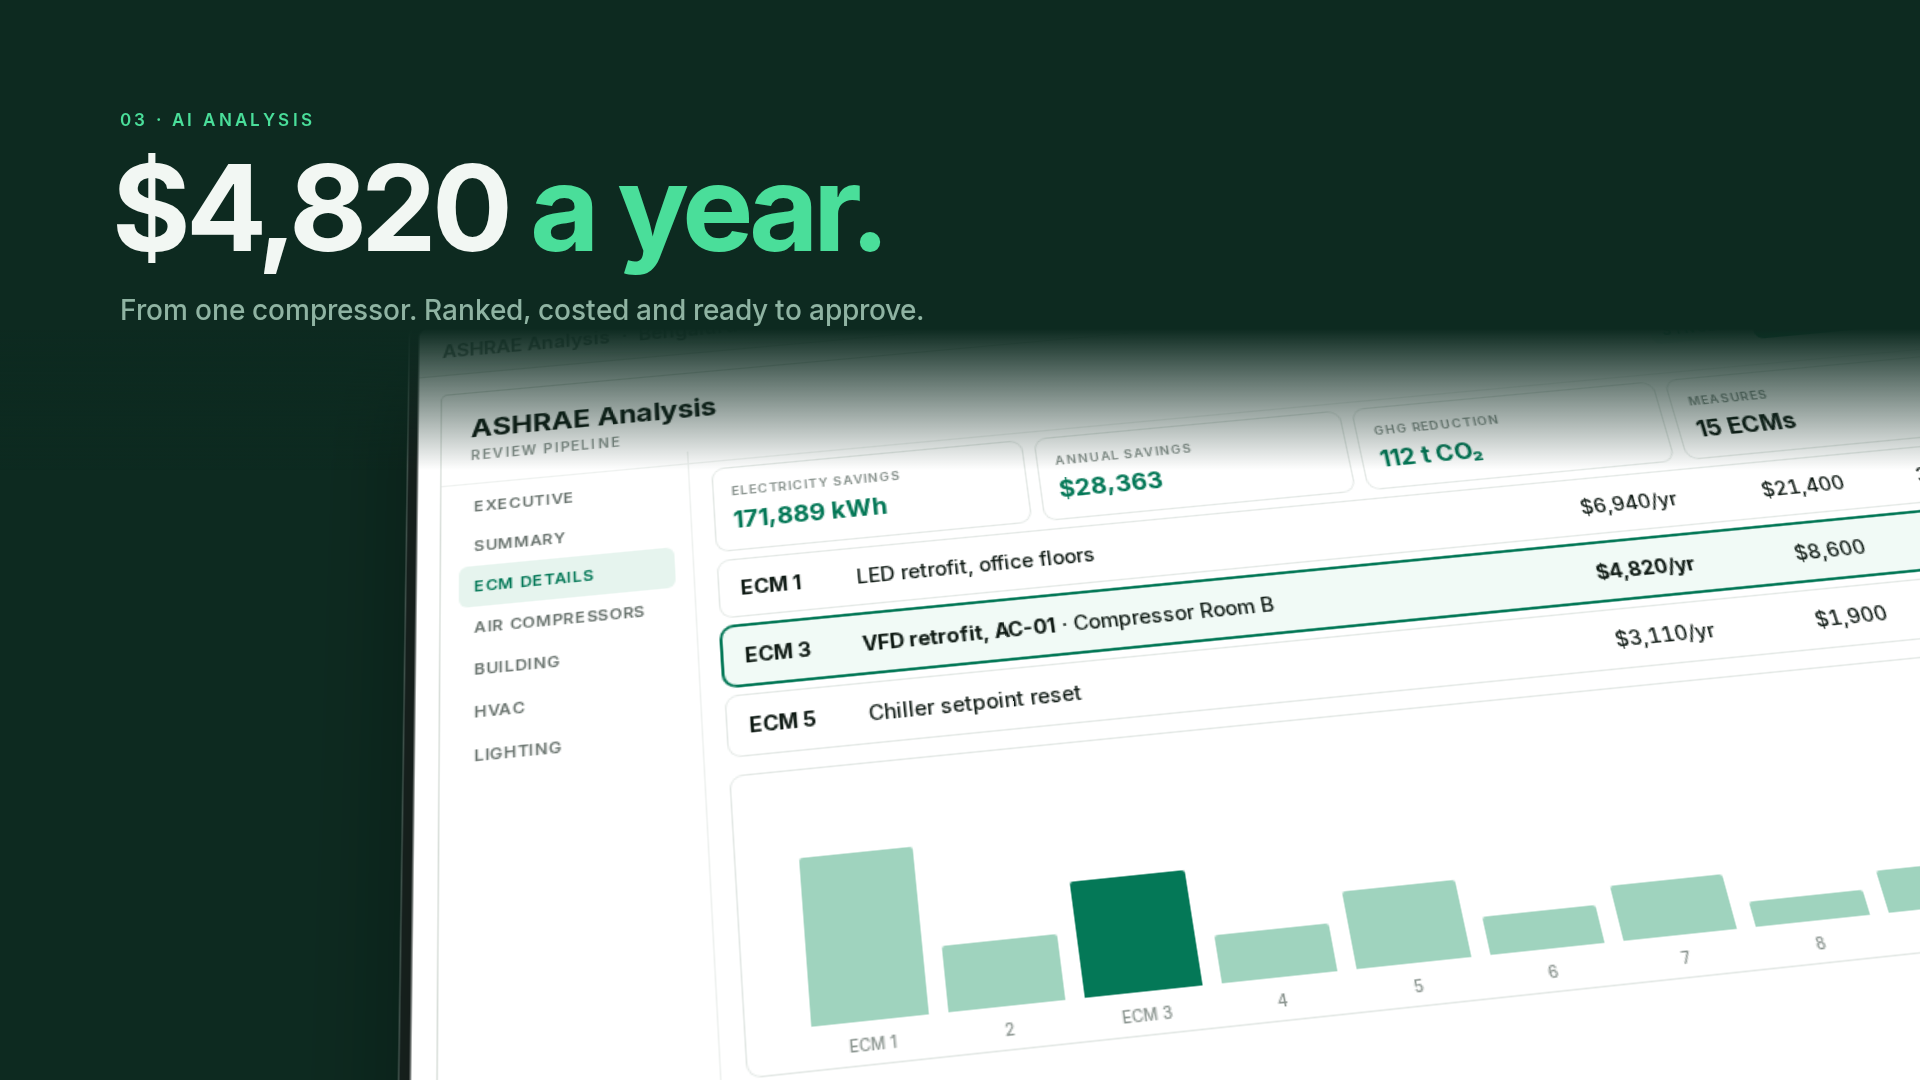
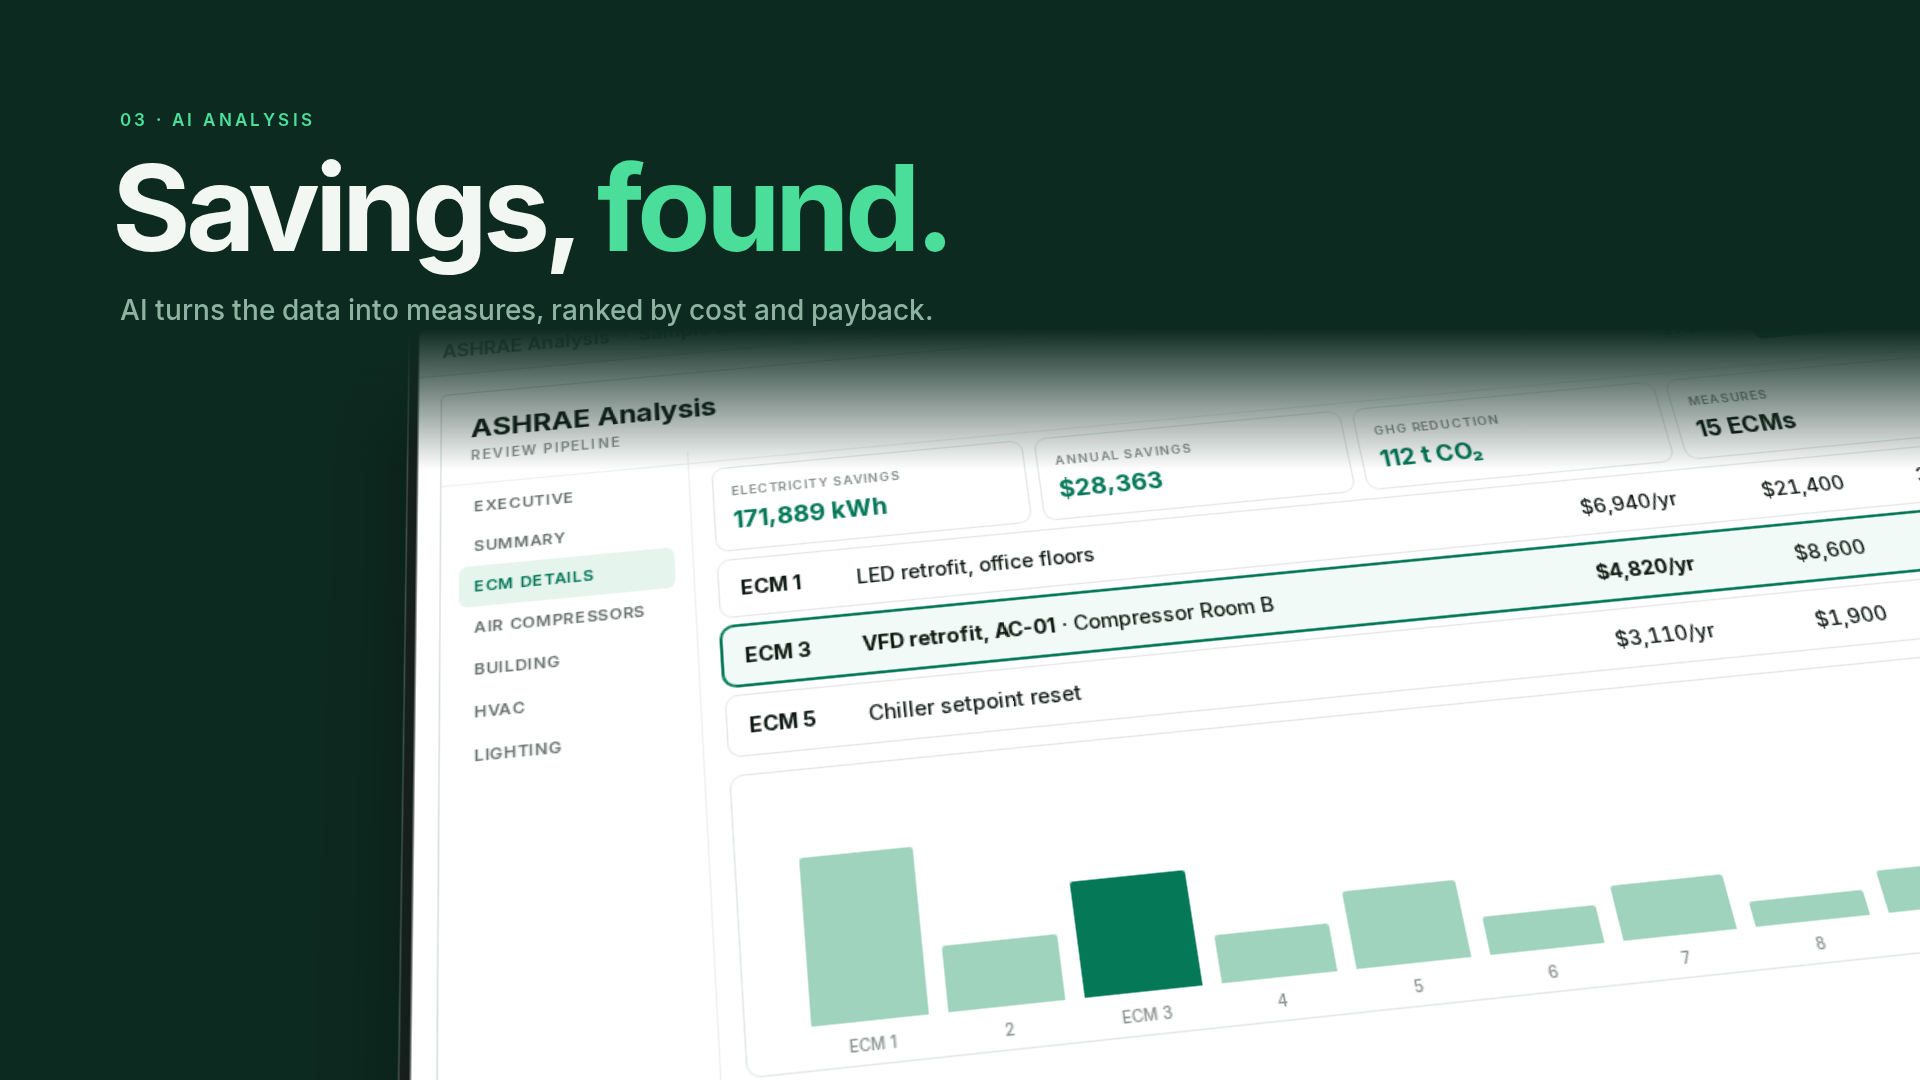
AuditSage storyboard: explain the process, not results; sample data only on screens
Claude-Session: https://claude.ai/code/session_01N6SAp883XGMwBKYGBCyKw5

Changed region(s): [[0.0625, 0.1528, 0.5, 0.3056]]

diff --git a/auditsage/docs/storyboard/v3.html b/auditsage/docs/storyboard/v3.html
@@ -111,7 +111,7 @@ html,body { margin:0; }
 .phone { background:linear-gradient(135deg,#55615B 0%,#151B18 22%,#0D1210 60%,#2C3631 100%) !important; box-shadow:0 40px 90px rgba(0,0,0,.45), inset 0 0 0 1.5px rgba(255,255,255,.18) !important; }
 </style></head><body><svg width="0" height="0" style="position:absolute"><defs><g id="ctl" fill="none" stroke="#6B7570" stroke-width="1.3"><path d="M2 6h10"/><rect x="42.5" y=".5" width="11" height="11"/><path d="M84 .5l11 11M95 .5l-11 11"/></g>
 <g id="cur"><path d="M4 2l15 11-7 1 4 8-3 1-4-8-5 5z" fill="#fff" stroke="#000" stroke-width="1.2" stroke-linejoin="round"/></g></defs></svg><template id="t-phone-data"><div class="phone"><div class="scr">
-  <div class="m-head"><div class="back"></div><div><h3>Air Compressor</h3><p>Bengaluru Office Energy Audit</p></div></div>
+  <div class="m-head"><div class="back"></div><div><h3>Air Compressor</h3><p>Sample Office · Energy Audit</p></div></div>
   <div class="m-tabs"><div class="on">DATA</div><div>NOTES</div><div>PHOTOS</div></div>
   <div class="m-lbl">EQUIPMENT</div><div class="m-in">AC-01 · Compressor Room B</div>
   <div class="m-lbl">RATED POWER (HP)</div><div class="m-in">75</div>
@@ -121,7 +121,7 @@ html,body { margin:0; }
   <div class="m-btn">SAVE ENTRY</div>
   <div class="m-nav"><div>Home</div><div>Browse</div><div class="badge">Sync</div><div>Profile</div></div>
 </div></div></template><template id="t-phone-notes"><div class="phone"><div class="scr">
-  <div class="m-head"><div class="back"></div><div><h3>Air Compressor</h3><p>Bengaluru Office Energy Audit</p></div></div>
+  <div class="m-head"><div class="back"></div><div><h3>Air Compressor</h3><p>Sample Office · Energy Audit</p></div></div>
   <div class="m-tabs"><div>DATA</div><div class="on">NOTES</div><div>PHOTOS</div></div>
   <div class="m-lbl">OBSERVATION</div>
   <div class="m-card">AC-01 runs loaded at part demand; discharge line insulation is worn.</div>
@@ -129,7 +129,7 @@ html,body { margin:0; }
   <div class="m-card">Fit a VFD to AC-01 and replace the discharge line insulation.</div>
   <div class="m-btn">ADD RECOMMENDATION</div>
   <div class="m-nav"><div>Home</div><div>Browse</div><div class="badge">Sync</div><div>Profile</div></div>
-</div></div></template><template id="t-analysis"><div class="win" style="width:1120px;height:700px"><div class="tb"><span>ASHRAE Analysis&nbsp;&nbsp;·&nbsp;&nbsp;Bengaluru Office</span><svg width="96" height="12"><use href="#ctl"/></svg></div><div class="wbody">
+</div></div></template><template id="t-analysis"><div class="win" style="width:1120px;height:700px"><div class="tb"><span>ASHRAE Analysis&nbsp;&nbsp;·&nbsp;&nbsp;Sample audit</span><svg width="96" height="12"><use href="#ctl"/></svg></div><div class="wbody">
   <div class="an-head"><div><h4>ASHRAE Analysis</h4><small>REVIEW PIPELINE</small></div><div><span class="pill s">SYNCED</span>&nbsp;&nbsp;<span class="pill g">Approve Analysis</span></div></div>
   <div class="an-side"><div>EXECUTIVE SUMMARY</div><div class="on">ECM DETAILS</div><div>AIR COMPRESSORS</div><div>BUILDING</div><div>HVAC</div><div>LIGHTING</div></div>
   <div class="an-main">
@@ -139,7 +139,7 @@ html,body { margin:0; }
     <div class="ecm"><b>ECM 5</b><span>Chiller setpoint reset</span><span class="num">$3,110/yr</span><span class="num">$1,900</span><span class="num">0.6 yrs</span></div>
     <div class="chart"><div class="bar" style="height:78%"><small>ECM 1</small></div><div class="bar" style="height:30%"><small>2</small></div><div class="bar hi" style="height:54%"><small>ECM 3</small></div><div class="bar" style="height:22%"><small>4</small></div><div class="bar" style="height:36%"><small>5</small></div><div class="bar" style="height:18%"><small>6</small></div><div class="bar" style="height:26%"><small>7</small></div><div class="bar" style="height:12%"><small>8</small></div><div class="bar" style="height:20%"><small>9</small></div><div class="bar" style="height:9%"><small>10</small></div></div>
   </div></div></div></template><template id="t-report"><div class="win" style="width:1120px;height:720px"><div class="tb"><span>Report Editor&nbsp;&nbsp;·&nbsp;&nbsp;ASHRAE Level 2</span><svg width="96" height="12"><use href="#ctl"/></svg></div><div class="wbody">
-  <div class="ed-bar">← Back to ECMs&nbsp;&nbsp;&nbsp;<span style="color:var(--muted);font-weight:500">Bengaluru Office · ASHRAE Level 2</span><span class="gw">Generate Word</span><span class="pill g" style="padding:7px 12px">Save</span></div>
+  <div class="ed-bar">← Back to ECMs&nbsp;&nbsp;&nbsp;<span style="color:var(--muted);font-weight:500">Sample audit · ASHRAE Level 2</span><span class="gw">Generate Word</span><span class="pill g" style="padding:7px 12px">Save</span></div>
   <div class="nav"><div style="font-weight:600;letter-spacing:.1em;font-size:10px;color:#8A948F">SECTIONS</div><div>1.0 Executive Summary</div><div>2.0 Background</div><div>3.0 Building Overview</div><div class="on">4.1 ECM Details</div><div>4.2 No/Low Cost ECMs</div><div>5.0 Utility Analysis</div></div>
   <div class="doc"><h5>4.1 ECM DETAILS</h5>
     <p><b>ECM 3 · Variable-speed drive for air compressor AC-01.</b></p>
@@ -163,7 +163,7 @@ html,body { margin:0; }
   </div>
   <div class="fields" style="position:absolute;left:370px;right:20px;top:84px;width:auto;border-radius:8px;box-shadow:0 0 0 1px #E3E8E5;overflow:hidden">
     <div class="r" style="background:#F6F8F7;font-weight:600;color:#6B7570;font-size:12px;letter-spacing:.06em"><span>FIELD</span><span>VALUE</span></div>
-    <div class="r"><span>Consumer</span><b>Bengaluru Office · HT</b></div>
+    <div class="r"><span>Consumer</span><b>Sample Office · HT</b></div>
     <div class="r"><span>Bill month</span><b>October 2023</b></div>
     <div class="r hi"><span>Units used</span><b>618,470 kWh</b></div>
     <div class="r"><span>Contract demand</span><b>1,000 kW</b></div>
@@ -200,8 +200,8 @@ html,body { margin:0; }
   <div class="persp"><div data-t="t-analysis" style="position:absolute;left:420px;top:330px;transform:rotateX(28deg) rotateZ(-6deg) scale(1.4);transform-origin:50% 40%"></div></div>
   <div class="abs" style="left:0;right:0;top:0;height:470px;background:linear-gradient(var(--bg) 70%, transparent)"></div>
   <div class="abs kick" style="left:120px;top:110px">03 · AI analysis</div>
-  <div class="abs big" style="left:112px;top:146px">$4,820 <i>a year.</i></div>
-  <div class="abs" style="left:120px;top:290px;font:500 28px/40px Inter;color:#8FB3A2">From one compressor. Ranked, costed and ready to approve.</div>
+  <div class="abs big" style="left:112px;top:146px">Savings, <i>found.</i></div>
+  <div class="abs" style="left:120px;top:290px;font:500 28px/40px Inter;color:#8FB3A2">AI turns the data into measures, ranked by cost and payback.</div>
 </div>
 
 <!-- 3 · Macro: bills, read by AI -->
@@ -226,9 +226,10 @@ html,body { margin:0; }
 <div class="frame" id="f6">
   <div class="tile" style="left:60px;top:60px;width:470px;height:960px;background:#F4F6F4;opacity:.9"><div data-t="t-phone-data" style="position:absolute;left:25px;top:40px"></div></div>
   <div class="tile" style="left:550px;top:60px;width:1310px;height:470px;background:#0F3B2C;box-shadow:none">
-    <div style="position:absolute;left:48px;top:48px" class="kick">Bengaluru Office · one audit · 15 ECMs</div>
-    <div style="position:absolute;left:44px;top:110px;font:700 190px/200px Inter;letter-spacing:-.05em;color:#4ADE9A">$28,363</div>
-    <div style="position:absolute;left:52px;top:320px;font:600 48px Inter;letter-spacing:-.02em;color:#F2F7F3">a year in savings. 171,889 kWh.</div>
+    <div style="position:absolute;left:48px;top:48px" class="kick">AuditSage · one audit, end to end</div>
+    <div style="position:absolute;left:44px;top:100px;font:700 104px/112px Inter;letter-spacing:-.045em;color:#F2F7F3">Site visit<br>to <span style="color:#4ADE9A">final report.</span></div>
+    <div style="position:absolute;left:48px;bottom:44px;display:flex;gap:12px;font:600 18px Inter;letter-spacing:.02em">
+      <span style="padding:10px 16px;border-radius:6px;background:#4ADE9A;color:#0D2A20">On site</span><span style="padding:10px 16px;border-radius:6px;box-shadow:inset 0 0 0 1.5px #4ADE9A;color:#F2F7F3">Bills</span><span style="padding:10px 16px;border-radius:6px;box-shadow:inset 0 0 0 1.5px #4ADE9A;color:#F2F7F3">Analysis</span><span style="padding:10px 16px;border-radius:6px;box-shadow:inset 0 0 0 1.5px #4ADE9A;color:#F2F7F3">Report</span></div>
   </div>
   <div class="tile" style="left:550px;top:550px;width:640px;height:470px"><div class="cap">ASHRAE analysis · ECM details</div><div data-t="t-analysis-compact" style="position:absolute;left:10px;top:14px;transform:scale(.795);transform-origin:0 0"></div></div>
   <div class="tile" style="left:1210px;top:550px;width:650px;height:470px"><div class="cap">Report · 4.1 ECM details</div>

diff --git a/auditsage/docs/shotlist.md b/auditsage/docs/shotlist.md
@@ -11,16 +11,17 @@ AuditSage screens (rebuilt faithfully from the gs-doc screenshots).
 **Mockups:** tight corners (phone screen 20 px, windows 6 px, tiles 10 px). Shine on the hardware only:
 the phone bezel catches a diagonal highlight and window frames have a lit dark edge; screens stay clean.
 In the film the bezel highlight sweeps on the beat as each device lands.
-**One consistent audit on every screen:** Bengaluru Office Energy Audit · AC-01 (Compressor Room B, 75 HP,
-95.2%, no VFD) · bill: October 2023, 618,470 kWh, 1,000 kW, HT-3.4 · ECM 3: VFD on AC-01, $4,820/yr,
-$8,600, 1.8 yr · audit total: 15 ECMs, 171,889 kWh, $28,363/yr, 112 t CO₂.
+**The film explains the process, not results.** Statements name steps (logged, read, found, written);
+no headline quotes a saving, a total or a specific ECM. The screens carry **sample data only**,
+labelled "Sample Office · Energy Audit", kept consistent across screens so the UI reads as one audit
+(sample equipment AC-01 in Compressor Room B, a sample bill, sample ECM rows, a sample report paragraph).
 
 | # | Beats | Time | Shot | Motion | Sound |
 |---|---|---|---|---|---|
 | 1 | 0–5.3 | 0.0–2.5 | **Bento.** Five tiles: app data entry, "Site visit to final report." tile with the mark, extracted bill, ASHRAE analysis, report paragraph. | Tiles snap in one per beat (already moving on frame 0); camera dives into the phone tile on 5. | Hit 0, tick per tile |
 | 2 | 5.3–10.7 | 2.5–5.0 | **Logged once.** The app full-frame in perspective; values fill field by field. "Equipment, photos and notes, offline in the AuditSage app." | Phone glides in with a bezel glint; fields fill on the 16th grid; statement rolls up. | Whoosh, ticks |
 | 3 | 10.7–16 | 5.0–7.5 | **Bills, read.** Extracted Data Details: the bill list ticks to ✓, fields appear row by row, Units used highlights. | Window swings in from the right; rows reveal; highlight sweeps. | Ticks, riser into 16 |
-| 4 | 16–22.4 | 7.5–10.5 | **$4,820 a year.** ASHRAE analysis seen low and close; the ECM 3 row (VFD retrofit, AC-01) lights, its bar rises; the number counts up. Cursor clicks Approve Analysis on 22. | Boom on 16; camera dolly along the table. | Boom 16, click 22 |
-| 5 | 22.4–26.7 | 10.5–12.5 | **Written in.** Report editor, 4.1 ECM Details with the AC-01 paragraph highlighted; cursor clicks Generate Word, "Word document downloaded". | Window morphs from the analysis; click on 25. | Click 25 |
-| 6 | 26.7–29 | 12.5–13.6 | **Pull back: $28,363 a year.** Back out to the bento; the big tile now carries the audit total. | Camera pull-back; number counts up. | Riser |
+| 4 | 16–22.4 | 7.5–10.5 | **Savings, found.** ASHRAE analysis seen low and close: "AI turns the data into measures, ranked by cost and payback." One ECM row lights and its bar rises (sample data). Cursor clicks Approve Analysis on 22. | Boom on 16; camera dolly along the table. | Boom 16, click 22 |
+| 5 | 22.4–26.7 | 10.5–12.5 | **Written in.** Report editor, 4.1 ECM Details with a sample paragraph highlighted; cursor clicks Generate Word, "Word document downloaded". | Window morphs from the analysis; click on 25. | Click 25 |
+| 6 | 26.7–29 | 12.5–13.6 | **Pull back: one audit, end to end.** Back out to the bento; the big tile reads "Site visit to final report." with the four steps lighting in turn: On site · Bills · Analysis · Report. | Camera pull-back; step chips fill one per 16th. | Riser |
 | 7 | 29–32 | 13.6–15.0 | **Lockup.** Mark, slash, AuditSage; "Site visit to final report."; "by GreenSage AI". Holds. | Mark opens from the bento tile; wordmark slides; tagline rolls. | Crash 29, fade |
